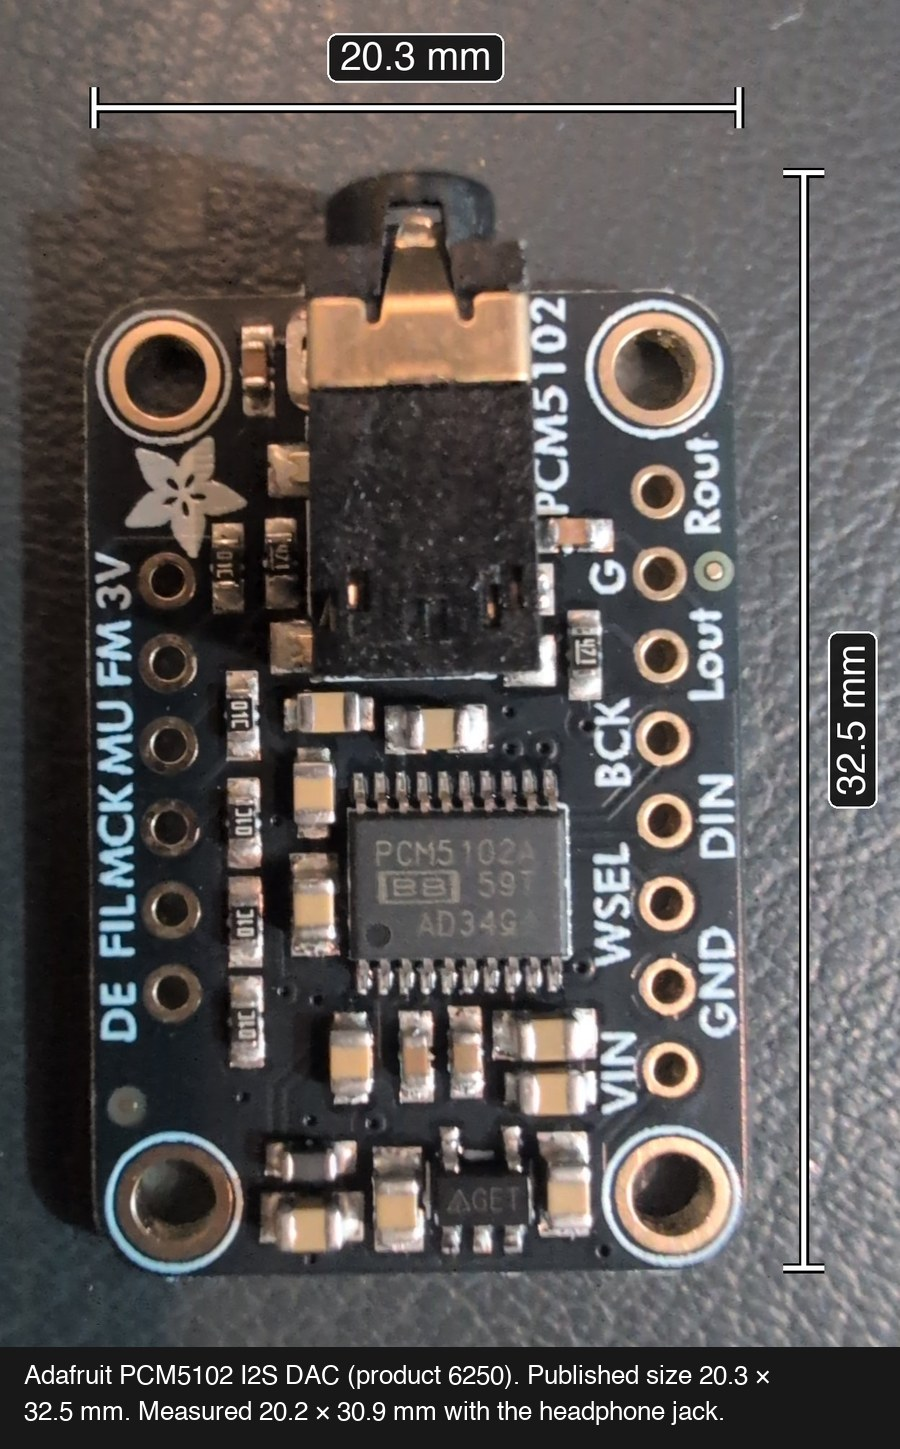
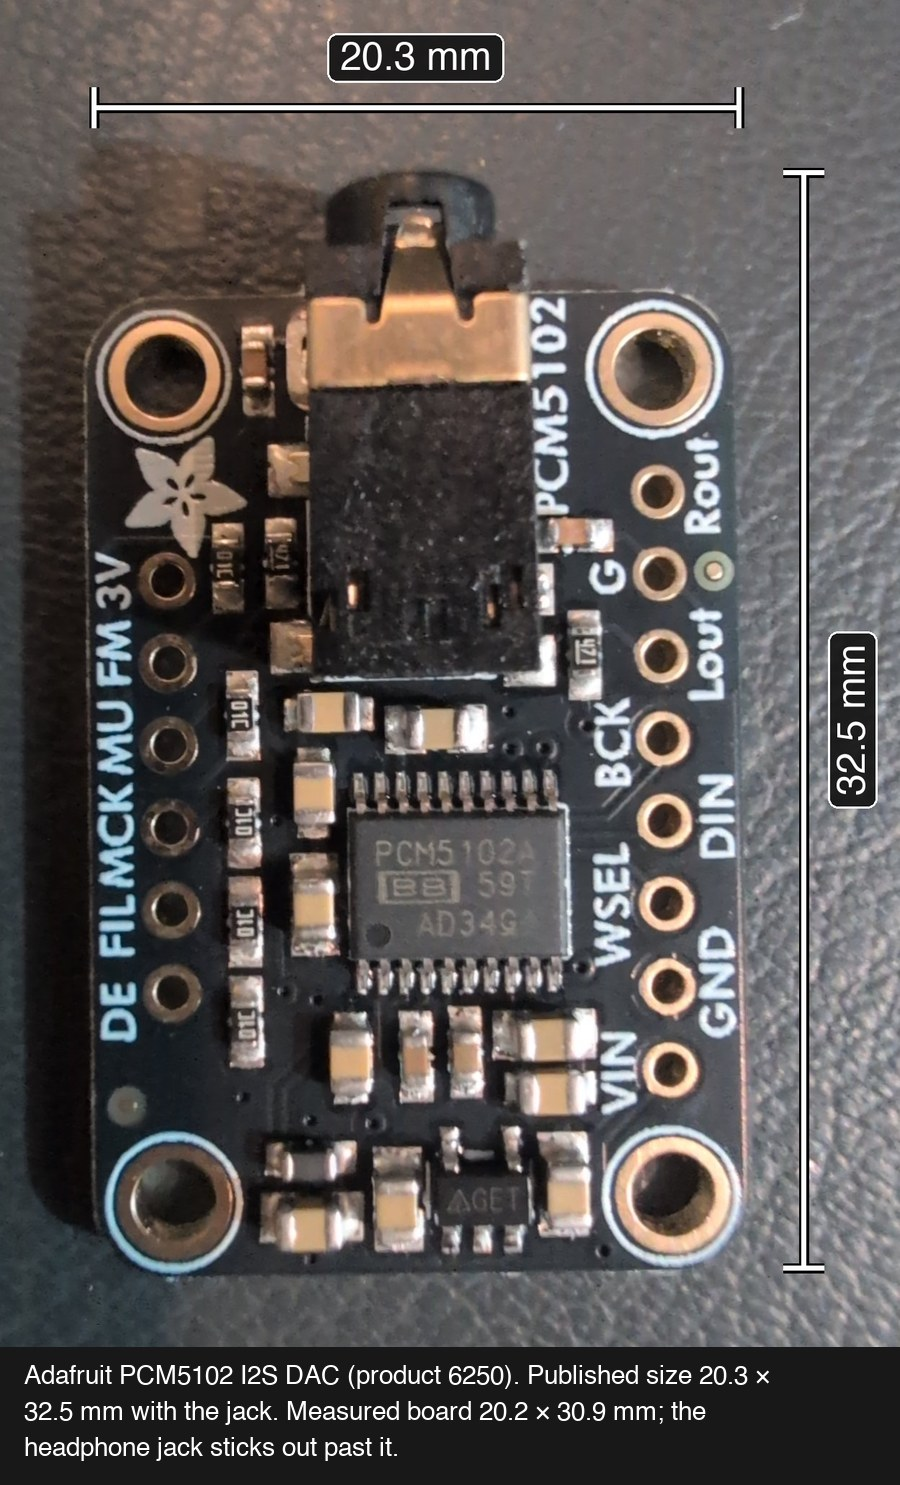
DAC: 30.9 mm is the board without the jack

diff --git a/.claude/tools/component_dims.py b/.claude/tools/component_dims.py
@@ -23,8 +23,8 @@ PARTS = {
                       "Waveshare ESP32-S3-Zero. Published size 18 × 23.5 mm. "
                       "Measured 17.9 × 23.8 mm with the USB-C socket."),
     "pcm5102a-dac": ((330, 575, 1225, 2095), "20.3 mm", "32.5 mm",
-                     "Adafruit PCM5102 I2S DAC (product 6250). Published size 20.3 × 32.5 mm. "
-                     "Measured 20.2 × 30.9 mm with the headphone jack."),
+                     "Adafruit PCM5102 I2S DAC (product 6250). Published size 20.3 × 32.5 mm with the jack. "
+                     "Measured board 20.2 × 30.9 mm; the headphone jack sticks out past it."),
     "st7735-tft-back": ((350, 625, 1240, 2085), "34.5 mm", "58 mm",
                         "1.8\" ST7735 display, back side. Published board size 34.5 × 58 mm. "
                         "Measured 34 × 58.2 mm. A full-size SD card (or microSD adapter) sticks out 19 mm."),

diff --git a/.claude/CLAUDE.md b/.claude/CLAUDE.md
@@ -25,7 +25,7 @@ features (playlists, Wi-Fi sync, no 8,192-track cap). Owner listens on IEMs only
 |---|---|
 | Display board | 34 × 58.2; SD adapter sticks out 19 on the right seen from the front (53.0 across board + card). Header removed. |
 | ESP32-S3-Zero | 17.9 × 23.8 incl. USB-C. Inner pads 14/15/16 sit beside pads 7/8/9. |
-| DAC | 20.2 × 30.9 incl. jack |
+| DAC | 20.2 × 30.9 board only, without the jack (owner's correction, 2026-11-15); published 20.3 × 32.5 with the jack |
 | Encoder board | 21.7 × 26.0; 10 k pull-ups R1/R2 on the back. Owner will remove the header but **not** desolder the encoder from the board. |
 | TP4056 charger | 17.3 × 26.7 |
 | Battery | 10.9 thick; length and width not yet measured |
